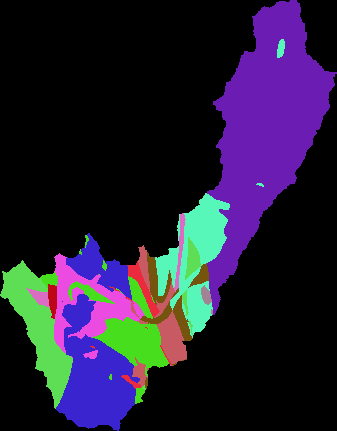
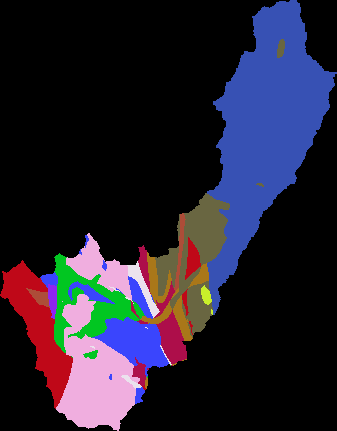
dataframtoimage

diff --git a/marvin_test.py b/marvin_test.py
@@ -3,10 +3,18 @@ from read_files import *
 import numpy
 from PIL import Image
 
-def dataframeToImage(dataframe, classRangeHigh, coninuus, filename):
+def dataframeToImage(dataframe, filename):
 
-    if classRangeHigh:
-        pass
+    classRangeHigh = 0
+    for i, row in dataframe.iterrows():
+        if int(row['class']) > classRangeHigh:
+            classRangeHigh = int(row['class'])
+
+    # Not True in general, but for this PoC
+    if classRangeHigh > 42:
+        coninuus = True
+    else:
+        coninuus = False
 
     min_x = 1000000
     max_x = 0
@@ -54,16 +62,16 @@ def dataframeToImage(dataframe, classRangeHigh, coninuus, filename):
 #df_geo = pruning(read_subjective1())
 #df_geo = read_subjective1()
 
-dataframeToImage(read_subjective1(), 12, False, 'results/subjective1.png')
-dataframeToImage(read_subjective2(), 12, False, 'results/subjective2.png')
-dataframeToImage(read_corine(), 41, False, 'results/corine.png')
+dataframeToImage(read_subjective1(), 'results/subjective1.png')
+dataframeToImage(read_subjective2(), 'results/subjective2.png')
+dataframeToImage(read_corine(), 'results/corine.png')
 
-dataframeToImage(pruning(read_aspect1()), 180, True, 'results/aspect1.png')
-dataframeToImage(pruning(read_aspect2()), 180, True, 'results/aspect2.png')
+#dataframeToImage(pruning(read_aspect1()), 180, True, 'results/aspect1.png')
+#dataframeToImage(pruning(read_aspect2()), 180, True, 'results/aspect2.png')
 
-dataframeToImage(pruning(read_dem()), 605, True, 'results/dem.png')
-dataframeToImage(pruning(read_ndvi()), 1, True, 'results/ndvi.png')
-dataframeToImage(pruning(read_slope()), 56, True, 'results/slope.png')
+#dataframeToImage(pruning(read_dem()), 605, True, 'results/dem.png')
+#dataframeToImage(pruning(read_ndvi()), 1, True, 'results/ndvi.png')
+#dataframeToImage(pruning(read_slope()), 56, True, 'results/slope.png')
 
 
 
